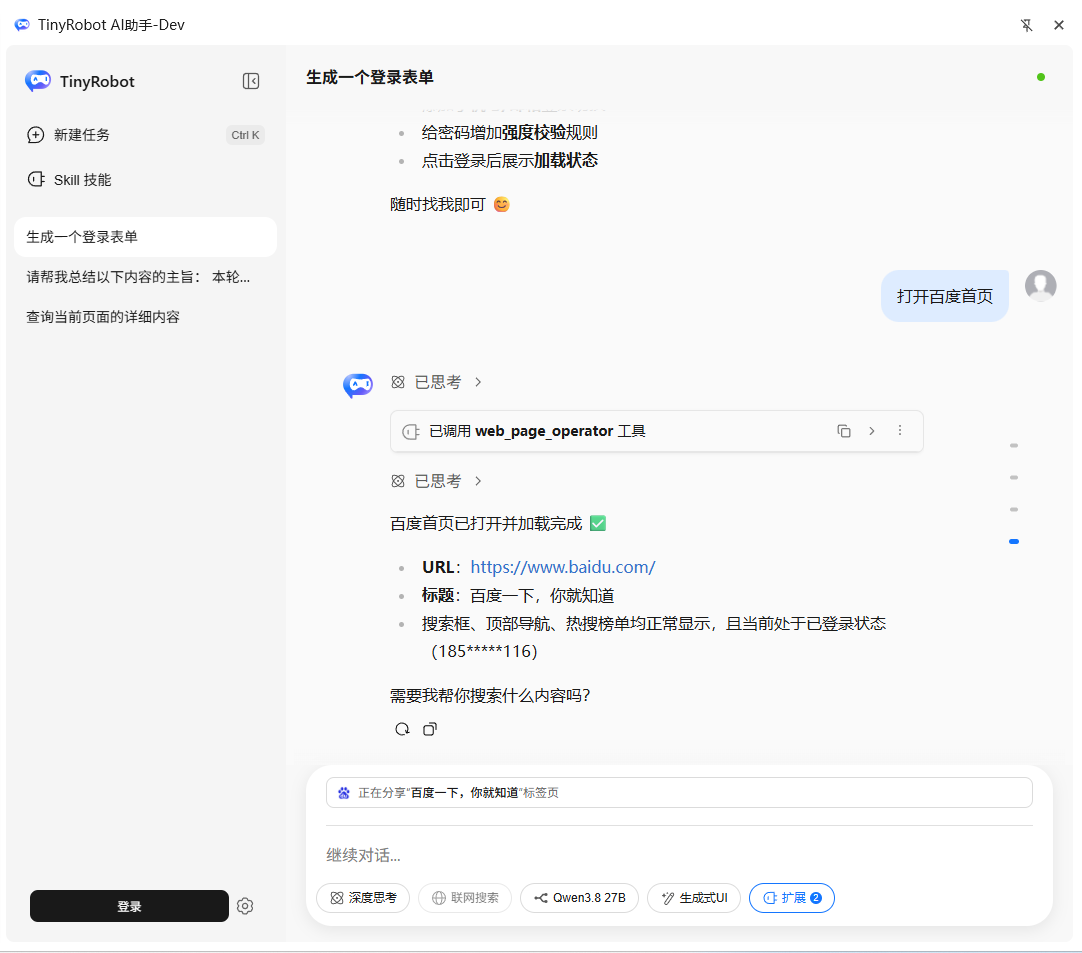
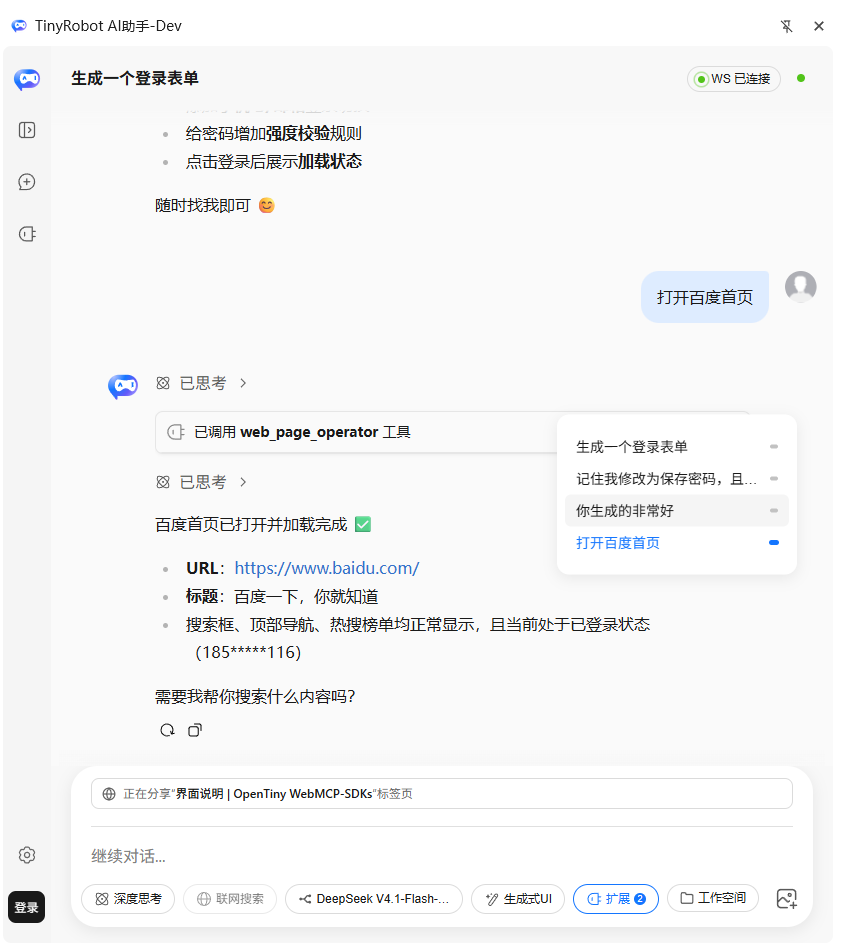
fix: AI 编写界面说明

diff --git a/docs/ai-extension/usage/ui-overview.md b/docs/ai-extension/usage/ui-overview.md
@@ -1,36 +1,102 @@
+---
+outline: [2, 3]
+---
+
 # 界面说明
 
-## 初始对话框界面说明
+**TinyRobot AI助手** 的界面由四个入口组成：**侧边栏**（AI 对话与任务执行的主界面）、**悬浮球**（网页内的快捷入口）、**右键菜单**（在页面右键中唤起 AI 能力）与**配置页**（独立标签页中的设置中心）。本页按入口逐一图解各界面元素的作用。
 
-![初始对话框界面](../assets/images/extension/start-sidepanel-ui.png)
+## 侧边栏：初始对话界面
 
-1. 侧边栏可以折叠与展开，它有新建任务，即创建一个新会话， Skill技能是打开当前插件拥有的技能列表，管理技能的话需要在选项设置中修改。 历史会话列表，点击可以切换到历史会话。登录按钮打开登录页，选项按钮打开插件的选项页面。
-2. 顶部的图标可以切换深色主题和浅色主题。 移动端扫码是用手机扫码，它会生成一个携带当前会话信息url,在手机上预览。
+点击浏览器工具栏上的 TinyRobot 图标即可展开侧边栏。未发起对话时，侧边栏呈现初始对话界面，下图为展开会话菜单后的界面：
 
-3. 对话输入框，输入用户的问题。 深度思考和联网搜索和 生成式UI按钮是打开相应的模式，它们依赖模型的能力。 之后是模型选择器，用于切换不同的大模型， 扩展按钮在右侧打开抽屉弹窗，可以控制当前对话使用哪些工具函数，此处不展开讨论，详细请看 ./extension-and-mcp.md 的文档（现在还没有写好，未来会写好的）。
+![初始对话框界面](../../assets/images/extension/start-sidepanel-ui.png)
 
-## 对话界面说明： `思考 `, `工具调用` `ai消息底部工具` `对话导航`
+### 会话栏（左侧）
 
-![对话界面](../assets/images/extension/chat-sidepanel-ui.png)
+| 元素         | 作用                                                                                       |
+| ------------ | ------------------------------------------------------------------------------------------ |
+| 折叠按钮     | 折叠 / 展开会话栏，为对话区腾出空间                                                        |
+| 新建任务     | 创建一个新会话                                                                             |
+| Skill 技能   | 打开当前插件拥有的技能列表；技能的增删改在配置页「Skill管理」中进行                        |
+| 历史会话列表 | 按时间列出历史会话，点击即可切换回对应会话                                                 |
+| 登录 / 头像  | 未登录时显示「登录」按钮并打开登录页；登录后显示头像（个人中心），可查看使用统计、退出登录 |
+| 设置齿轮     | 在独立标签页中打开配置页                                                                   |
 
-1. 思考链的渲染
-2. 调用工具的渲染，可以展开工具的参数和返回值
-3. AI消息底部工具栏可以重复对话和复制对话结果
-4. 对话列表导航： 显示当前上下文的每一轮的对话，点击迅速跳转到相应的对话
+### 顶部工具
 
-## 悬浮球说明：
+| 元素     | 作用                                                                |
+| -------- | ------------------------------------------------------------------- |
+| 主题切换 | 在深色主题与浅色主题之间切换                                        |
+| 移动端   | 生成携带当前会话信息的 URL 二维码，用手机扫码即可在移动端预览该会话 |
 
-启用浏览器插件后，默认会在用户页面产生一个悬浮球，用于快速操作一些内置插件功能
+### 对话输入区
 
-![悬浮球界面](../assets/images/extension/float-ui.png)
+| 元素               | 作用                                                                                         |
+| ------------------ | -------------------------------------------------------------------------------------------- |
+| 输入框             | 输入用户的问题或任务描述                                                                     |
+| 深度思考           | 开启深度思考模式，是否生效依赖所选模型的能力                                                 |
+| 联网搜索           | 开启联网搜索模式，是否生效依赖所选模型的能力                                                 |
+| 模型选择器         | 切换当前会话使用的大模型                                                                     |
+| 生成式UI           | 开启生成式 UI 模式，是否生效依赖所选模型的能力                                               |
+| 扩展（带数量徽标） | 在右侧打开抽屉弹窗，控制当前对话可使用哪些工具函数；详见 [扩展与MCP](./extension-and-mcp.md) |
+| 技能快捷按钮       | 「网页 / 视频 / 电子表格 / 可视化 / PPT」，一键切换任务类型                                  |
+| 推荐提示词卡片     | 按「推荐 / WebAgent / 教育 / 金融 / 创作 / 生活 / 通用」分类的示例任务，点击即可填入输入框   |
 
-1. 悬浮球可以拖动并松手时自动吸附在左右2边
-2. 左键点击出现插件菜单，点击触发插件菜单功能
-3. 右键点击出现了隐藏悬浮球和设置菜单。 隐藏悬浮球有3种方式： 本次隐藏，刷新后出现； 当前网站禁用，是禁用当前域名，后续打开这个域名时，都不出现悬浮球； 永久禁用是在所有网页都隐藏。 要恢复它的显示，请在设置中的`悬浮球管理`中打开， 请参考 ..\setting\floating-ui-config.md 的文档（现在还没有写好，未来会写好的）。 设置菜单直接打开插件的选项设置页面。
+::: tip
+开启「CLI WebSocket 桥接」后，侧边栏还会出现 **WS 状态徽章**（`WS 待连接` / `WS 已连接`）与**本地工作空间**按钮，分别用于管理本地桥接连接、为当前会话绑定本地文件夹，见 [安装指南](../install.md)。
+:::
 
-4. 某些插件执行任务时，悬浮球会显示任务的当前状态，点击停止可以停止当前任务。
+## 侧边栏：对话界面
 
-## 右键菜单说明：
+发起对话后，对话区会渲染思考链、工具调用与消息工具栏：
 
-启用浏览器插件后，默认的一些内置插件会注册右键菜单到 页面右键菜单的`TinyRobot AI助手-Dev`菜单下面，
-![右键菜单界面](../assets/images/extension/context-menu.png)
+![对话界面](../../assets/images/extension/chat-sidepanel-ui.png)
+
+1. **思考链**：以「已思考」折叠块渲染模型的推理过程，点击可展开查看。
+2. **工具调用**：以「已调用 `<工具名>` 工具」卡片渲染每一次工具调用，展开可查看工具的参数与返回值，并支持一键复制。
+3. **消息工具栏**：AI 消息底部提供「重新生成」与「复制」按钮，可重复对话或复制对话结果。
+4. **对话导航**：对话区右侧的圆点列表对应当前上下文的每一轮对话，点击可迅速跳转到相应位置。
+5. **标签页分享横幅**：输入框上方的「正在分享 “xxx” 标签页」横幅，表示当前会话正在读取或操作该标签页。
+
+## 悬浮球
+
+启用浏览器插件后，默认会在用户页面产生一个悬浮球，用于快速操作一些内置插件功能：
+
+![悬浮球界面](../../assets/images/extension/float-ui.png)
+
+1. **拖动吸附**：悬浮球可以拖动，松手时自动吸附在页面左 / 右两侧。
+2. **左键菜单**：左键点击展开插件快捷菜单，点击菜单项即触发对应插件功能。默认为「AI 对话」，已开启的插件会追加条目，例如「Markdown 下载」「文章总结」「DOM 元素选取」。
+3. **右键菜单**：右键点击出现「隐藏悬浮球」与「设置」两个菜单。
+   - 隐藏悬浮球有 3 种方式：**本次关闭直到下次访问**（刷新页面后恢复）、**当前网站禁用**（仅当前域名不再出现）、**永久禁用**（所有网页都不出现），后两种可在设置页恢复。
+   - 要恢复悬浮球显示，请在配置页「悬浮球设置」中打开，见 [悬浮球设置](../setting/floating-ui-config.md)。
+   - 「设置」菜单直接打开插件的配置页。
+4. **任务状态**：某些插件执行任务时，悬浮球会展开显示任务的当前状态（任务标题与旋转描边），点击停止按钮可以停止当前任务。
+
+## 右键菜单
+
+启用浏览器插件后，默认的一些内置插件会注册右键菜单到页面右键菜单的 `TinyRobot AI助手` 父菜单下（开发构建显示为 `TinyRobot AI助手-Dev`）：
+
+![右键菜单界面](../../assets/images/extension/context-menu.png)
+
+| 菜单项       | 触发条件              | 作用                                     |
+| ------------ | --------------------- | ---------------------------------------- |
+| 总结此内容   | 选中文本后右键        | 对选中片段做 AI 总结，结果以页面弹窗展示 |
+| 文章总结     | 选中或空白处右键      | 对整页文章做 AI 总结                     |
+| 文章优化     | 选中 / 可编辑区域右键 | 唤起侧边栏，对内容进行帮写与优化         |
+| Markdown下载 | 选中或空白处右键      | 提取正文并下载为 Markdown 文件           |
+
+::: tip
+右键菜单项由插件注册：「总结此内容 / 文章总结 / 文章优化」来自**内容助手**插件，「Markdown下载」来自**导出为 Markdown** 插件。若菜单未出现，请在配置页「功能管理」中确认对应插件已开启，见 [功能管理](../setting/plugin-config.md)。
+:::
+
+## 配置页
+
+配置页在独立标签页中打开（侧边栏的设置齿轮、悬浮球的「设置」菜单均可进入），包含功能管理、模型设置、悬浮球设置、Skill管理、WebMCP管理、数据管理与安全护栏等设置项，详见配置指南各页。
+
+## 下一步
+
+- [注册与登录](./register-login.md)：账号、免费额度与使用统计。
+- [扩展与MCP](./extension-and-mcp.md)：浏览器工具、页面工具与 MCP 市场。
+- [功能管理](../setting/plugin-config.md)：按域名开启或关闭内置插件。
+- [悬浮球设置](../setting/floating-ui-config.md)：悬浮球的显示与站点黑名单。
